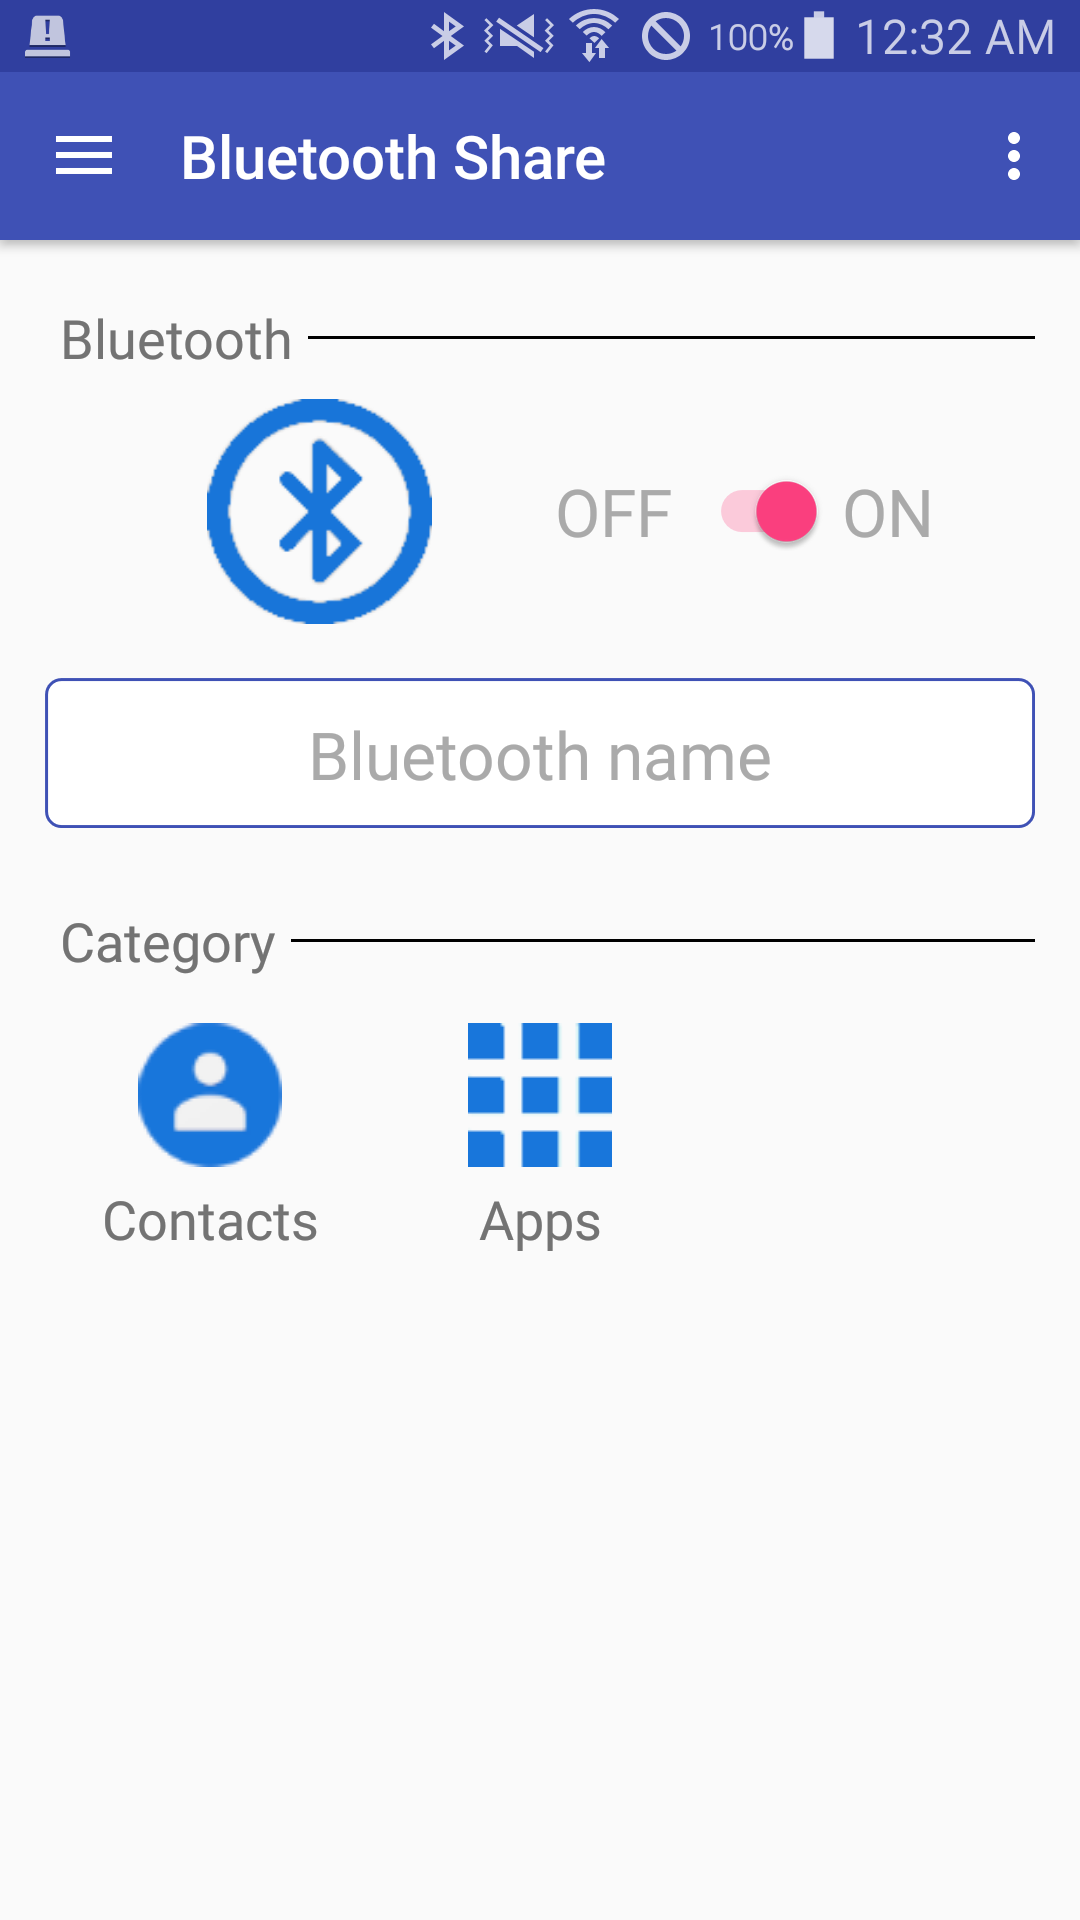
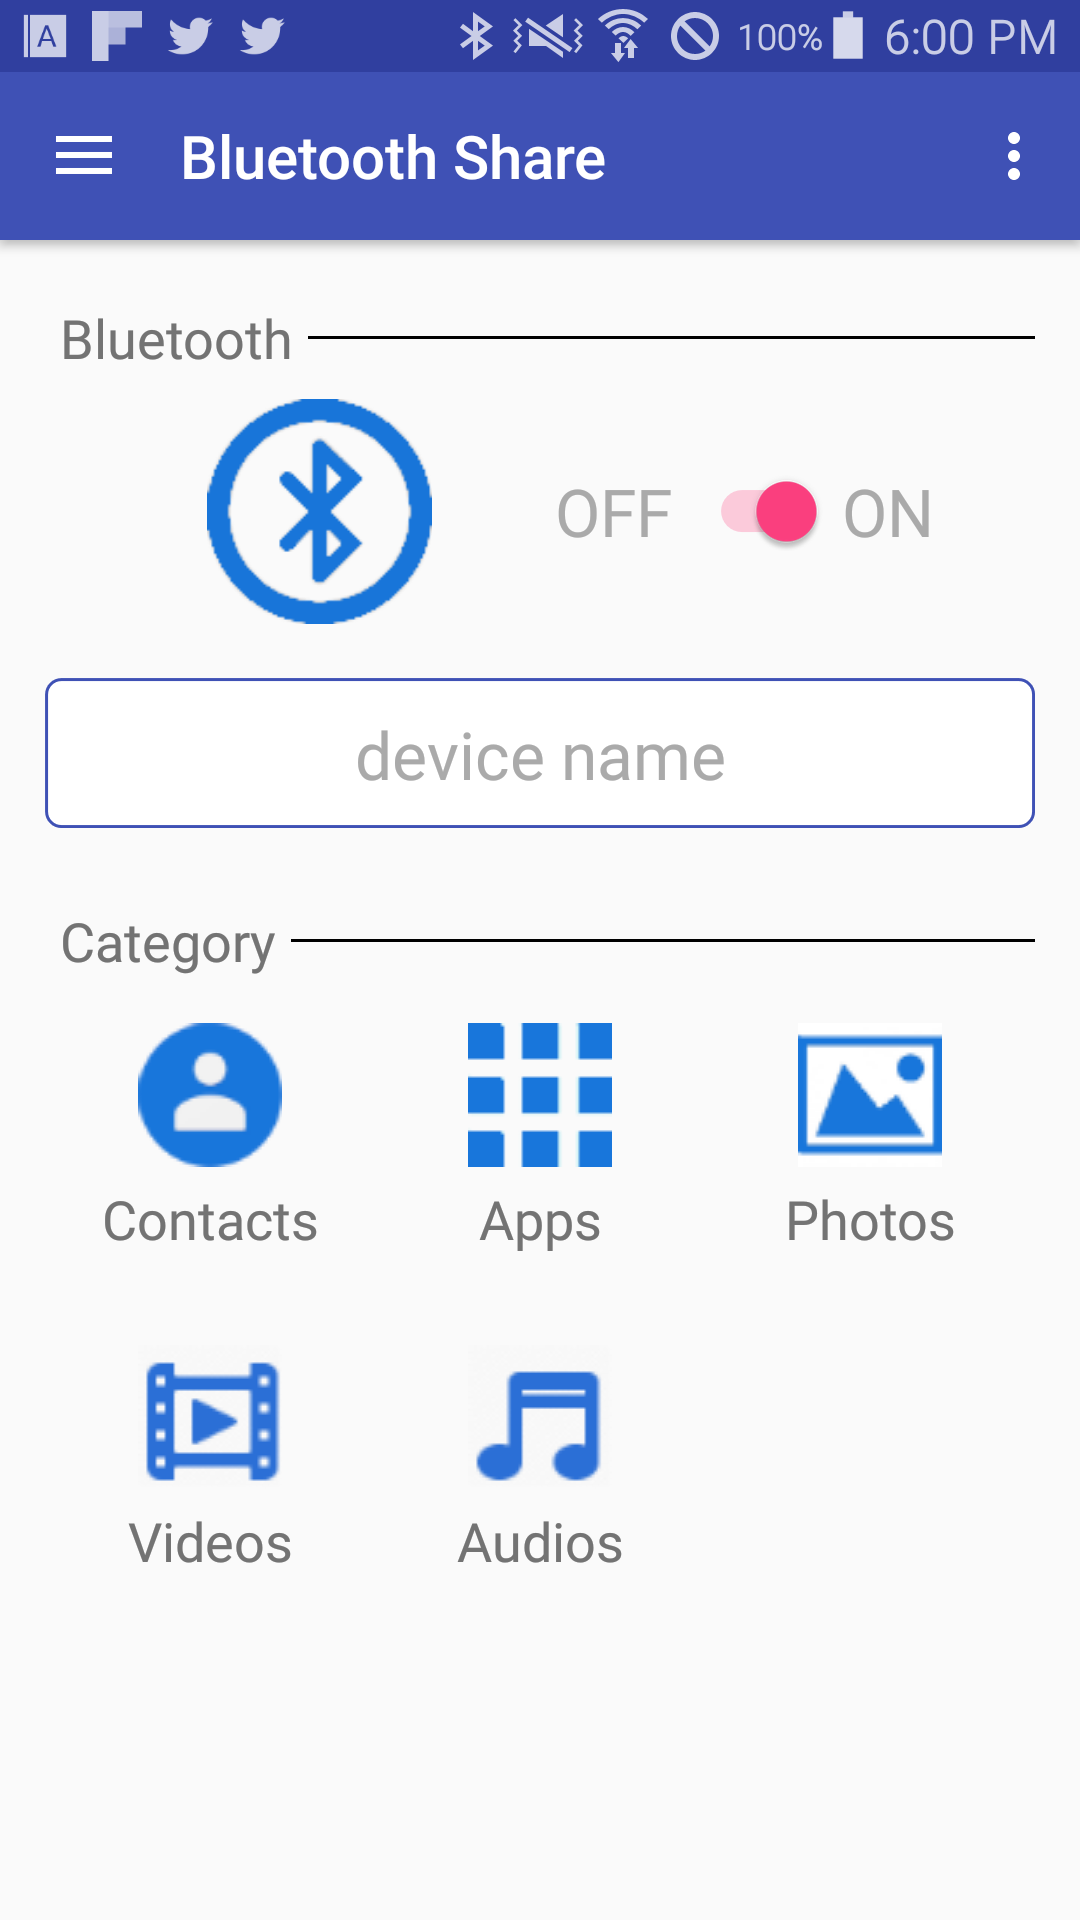
[Bluetooth share] - audios category 추가

diff --git a/BluetoothShare/app/src/main/java/com/purehero/bluetooth/share/categorys/AudioListAdapter.java b/BluetoothShare/app/src/main/java/com/purehero/bluetooth/share/categorys/AudioListAdapter.java
@@ -1,0 +1,73 @@
+package com.purehero.bluetooth.share.categorys;
+
+
+import android.app.Activity;
+import android.content.ContentUris;
+import android.database.Cursor;
+import android.net.Uri;
+import android.provider.MediaStore;
+import android.widget.ImageView;
+
+import com.bumptech.glide.Glide;
+import com.purehero.bluetooth.share.BaseListAdapter;
+import com.purehero.bluetooth.share.BaseListData;
+import com.purehero.bluetooth.share.R;
+
+import java.io.File;
+import java.util.List;
+
+/**
+ * Created by MY on 2017-05-12.
+ */
+
+public class AudioListAdapter extends BaseListAdapter {
+    public AudioListAdapter(Activity context) {
+        super(context);
+    }
+
+    @Override
+    protected void drawIcon(Activity context, BaseListData data, ImageView ivIcon) {
+        Glide.with(context).load(getArtUriFromMusicFile(data.getFile())).centerCrop().placeholder(R.drawable.fl_ic_music).into(ivIcon);
+    }
+
+    @Override
+    public void setListDatas(List<BaseListData> listDatas) {
+        Uri uri = MediaStore.Audio.Media.EXTERNAL_CONTENT_URI;
+        String selection = null;
+        String[] projection = { "*" };
+
+        Cursor cursor = context.getContentResolver().query( uri, projection, selection, null, null);
+        if (cursor == null) return;
+        if (!cursor.moveToFirst()) return;
+        do {
+            String path = cursor.getString( cursor.getColumnIndex(MediaStore.Audio.Media.DATA));
+
+            BaseListData data = new BaseListData( new File( path ));
+            listDatas.add( data );
+
+        } while (cursor.moveToNext());
+    }
+
+    public Uri getArtUriFromMusicFile(File file) {
+        final Uri uri = MediaStore.Audio.Media.EXTERNAL_CONTENT_URI;
+        final String[] cursor_cols = { MediaStore.Audio.Media.ALBUM_ID };
+
+        final String where = MediaStore.Audio.Media.IS_MUSIC + "=1 AND " + MediaStore.Audio.Media.DATA + " = '"
+                + file.getAbsolutePath() + "'";
+        final Cursor cursor = context.getContentResolver().query(uri, cursor_cols, where, null, null);
+        //Log.d(TAG, "Cursor count:" + cursor.getCount());
+        /*
+         * If the cusor count is greater than 0 then parse the data and get the art id.
+         */
+        if (cursor != null && cursor.getCount() > 0) {
+            cursor.moveToFirst();
+            Long albumId = cursor.getLong(cursor.getColumnIndexOrThrow(MediaStore.Audio.Media.ALBUM_ID));
+
+            Uri sArtworkUri = Uri.parse("content://media/external/audio/albumart");
+            Uri albumArtUri = ContentUris.withAppendedId(sArtworkUri, albumId);
+            cursor.close();
+            return albumArtUri;
+        }
+        return Uri.EMPTY;
+    }
+}

diff --git a/BluetoothShare/app/src/main/java/com/purehero/bluetooth/share/MainActivity.java b/BluetoothShare/app/src/main/java/com/purehero/bluetooth/share/MainActivity.java
@@ -23,6 +23,8 @@ import android.view.View;
 import android.widget.Toast;
 
 import com.purehero.bluetooth.share.apps.ApkListFragment;
+import com.purehero.bluetooth.share.categorys.AudioListAdapter;
+import com.purehero.bluetooth.share.categorys.MyFileListAdapter;
 import com.purehero.bluetooth.share.categorys.VideoListAdapter;
 import com.purehero.bluetooth.share.contacts.ContactFragment;
 import com.purehero.bluetooth.share.files.FileListFragment;
@@ -191,15 +193,12 @@ public class MainActivity extends AppCompatActivity
                 break;
             case R.id.btnMyFiles    :
             case R.id.nav_files     :
-                FileListFragment myFiles = new FileListFragment().setMainActivity(this);
-                myFiles.setRootFolder( new File( "/"));
-                myFiles.setnActionBarTitleResId( R.string.my_files );
+                BaseListFragment myFiles = new BaseListFragment().setBaseListAdapter(new MyFileListAdapter(this)).setMainActivity(this, R.string.my_files);
                 fragmentTransaction.replace(R.id.fragment_area, myFiles ); break;
 
             case R.id.btnAudios     :
             case R.id.nav_audios    :
-                FileListFragment myAudios = new FileListFragment().setMainActivity(this);
-                myAudios.setRootFolder( Environment.getExternalStoragePublicDirectory( Environment.DIRECTORY_MUSIC ) );
+                BaseListFragment myAudios = new BaseListFragment().setBaseListAdapter(new AudioListAdapter(this)).setMainActivity(this, R.string.audios );
                 fragmentTransaction.replace(R.id.fragment_area, myAudios ); break;
 
             case R.id.btnDocuments  :

diff --git a/BluetoothShare/app/src/main/java/com/purehero/bluetooth/share/categorys/MyFileListAdapter.java b/BluetoothShare/app/src/main/java/com/purehero/bluetooth/share/categorys/MyFileListAdapter.java
@@ -19,19 +19,20 @@ import java.util.List;
  * Created by MY on 2017-05-12.
  */
 
-public class ImageListAdapter extends BaseListAdapter {
-    public ImageListAdapter(Activity context) {
+public class MyFileListAdapter extends BaseListAdapter {
+    public MyFileListAdapter(Activity context) {
         super(context);
     }
 
     @Override
     protected void drawIcon(Activity context, BaseListData data, ImageView ivIcon) {
-        Glide.with( context ).load( data.getFile()).centerCrop().placeholder( R.drawable.fl_ic_image ).into( ivIcon );
+        Glide.with( context ).load( data.getFile()).centerCrop().placeholder( R.drawable.fl_ic_text ).into( ivIcon );
     }
 
     @Override
     public void setListDatas(List<BaseListData> listDatas) {
-        Uri uri = MediaStore.Images.Media.EXTERNAL_CONTENT_URI;
+        // External 스토리지의 URI 획득
+        final Uri uri = MediaStore.Files.getContentUri("external");
         String selection = null;
         String[] projection = { "*" };
 
@@ -39,7 +40,7 @@ public class ImageListAdapter extends BaseListAdapter {
         if (cursor == null) return;
         if (!cursor.moveToFirst()) return;
         do {
-            String path = cursor.getString( cursor.getColumnIndex(MediaStore.Images.Media.DATA));
+            String path = cursor.getString( cursor.getColumnIndex(MediaStore.Files.FileColumns.DATA));
 
             BaseListData data = new BaseListData( new File( path ));
             listDatas.add( data );

diff --git a/BluetoothShare/app/src/main/java/com/purehero/bluetooth/share/categorys/VideoListAdapter.java b/BluetoothShare/app/src/main/java/com/purehero/bluetooth/share/categorys/VideoListAdapter.java
@@ -5,9 +5,12 @@ import android.app.Activity;
 import android.database.Cursor;
 import android.net.Uri;
 import android.provider.MediaStore;
+import android.widget.ImageView;
 
+import com.bumptech.glide.Glide;
 import com.purehero.bluetooth.share.BaseListAdapter;
 import com.purehero.bluetooth.share.BaseListData;
+import com.purehero.bluetooth.share.R;
 
 import java.io.File;
 import java.util.List;
@@ -19,6 +22,11 @@ import java.util.List;
 public class VideoListAdapter extends BaseListAdapter {
     public VideoListAdapter(Activity context) {
         super(context);
+    }
+
+    @Override
+    protected void drawIcon(Activity context, BaseListData data, ImageView ivIcon) {
+        Glide.with( context ).load( data.getFile()).centerCrop().placeholder( R.drawable.fl_ic_movies ).into( ivIcon );
     }
 
     @Override

diff --git a/BluetoothShare/app/src/main/java/com/purehero/bluetooth/share/BaseListAdapter.java b/BluetoothShare/app/src/main/java/com/purehero/bluetooth/share/BaseListAdapter.java
@@ -95,9 +95,12 @@ public abstract class BaseListAdapter extends BaseAdapter implements Filterable,
         }
         viewHolder.cbSelected.setId( position );
 
-        Glide.with( context ).load( data.getFile()).centerCrop().placeholder( R.drawable.fl_ic_image ).into( viewHolder.ivIcon );
+        drawIcon( context, data, viewHolder.ivIcon );
+        //Glide.with( context ).load( data.getFile()).centerCrop().placeholder( R.drawable.fl_ic_image ).into( viewHolder.ivIcon );
         return view;
     }
+
+    protected abstract void drawIcon(Activity context, BaseListData data, ImageView ivIcon);
 
     @Override
     public void onClick(View view) {
